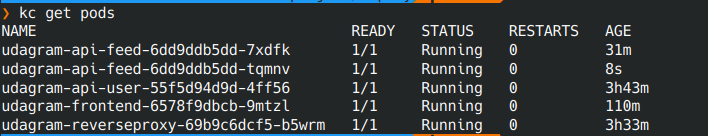
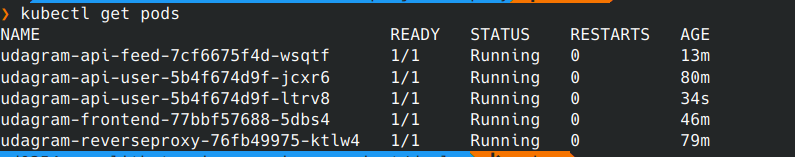
Update submission

diff --git a/deploy/commands.md b/deploy/commands.md
@@ -3,6 +3,9 @@ kubectl apply -f aws-secret.yaml
 kubectl apply -f env-secret.yaml
 kubectl apply -f env-configmap.yaml
 
+kubectl get secrets
+kubectl get configmap
+
 # Feed API
 kubectl apply -f backend-feed-deployment.yaml
 kubectl apply -f backend-feed-service.yaml
@@ -16,8 +19,23 @@ kubectl apply -f reverseproxy-deployment.yaml
 kubectl expose deployment udagram-reverseproxy --type=LoadBalancer --name=public-udagram-reverseproxy-svc
 
 # Frontend
-kubectl apply -f frontend-deployment.yaml
+kubectl apply -f frontend-deployment.yamlkc describe 
 kubectl expose deployment udagram-frontend --type=LoadBalancer --name=public-udagram-frontend-svc
 
-kubectl autoscale deployment udagram-api-feed --cpu-percent=50 --min=1 --max=2
+# HPA & Metric server
+kubectl apply -f https://github.com/kubernetes-sigs/metrics-server/releases/latest/download/components.yaml
+kubectl autoscale deployment udagram-api-feed --cpu-percent=50 --min=1 --max=3
+
+# Screenshots
+kubectl get pods
+kubectl describe services
+kubectl describe hpa
+kubectl logs udagram-api-user
+kubectl logs udagram-api-feed
+kubectl logs udagram-frontend
+kubectl logs udagram-reverseproxy
 ```
+
+http://a5e288e67f1bc49528d2a20d0eca0d54-1487765455.us-east-1.elb.amazonaws.com:8080/api/v0/feed
+
+http://aaefd158d5a2e4f11b8db38778cad47b-848227203.us-east-1.elb.amazonaws.com
